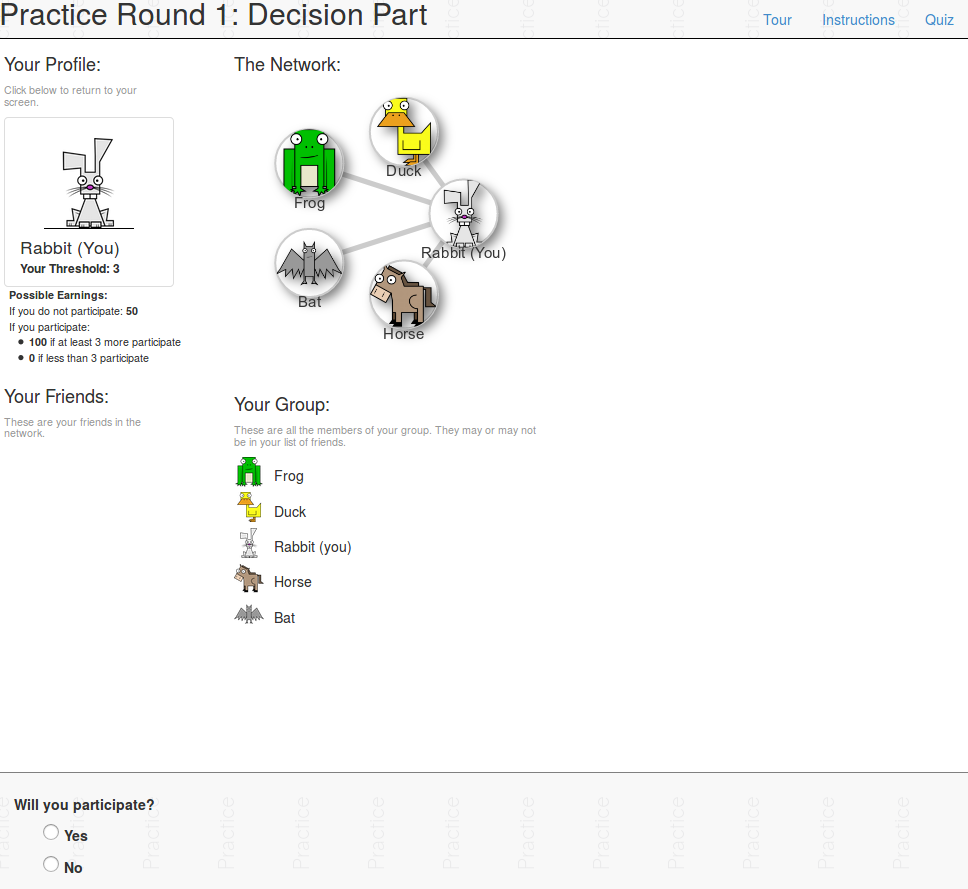
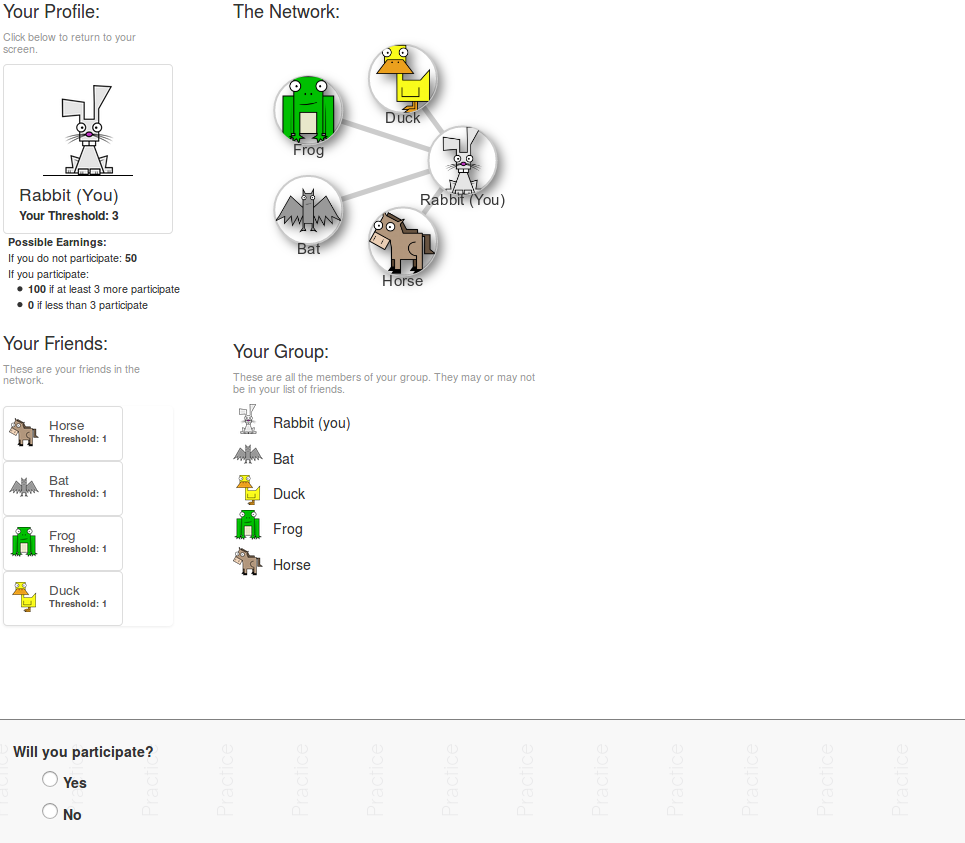
prepare for final deployment

diff --git a/main/views.py b/main/views.py
@@ -21,7 +21,7 @@ class AssignAvatar(Page):
 
 class Discuss(Page):
 
-    #timeout_seconds = 60*10    
+    timeout_seconds = 60*10    
 
     def before_next_page(self):
         if self.timeout_happened:
@@ -126,27 +126,27 @@ class IntermediateWaitPage(WaitPage):
 
 ### SIMPLE CODE FOR AUTOMATED MESSAGES
         message_round = group_players[0].participant.vars['message_round']        
-        for node in self.group.network.node_set.all():
-            if node.bot:
-                neighbors = node.get_neighbors()
-                for neighbor in neighbors:
-                    if int(round(random())) and (self.session.config['condition_messaging'] in ['wall','both']):
-                        wall = neighbor.wall_set.first()
-                        wall.message_set.add(
-                            Message(createdBy=node,
-                            messageRound = message_round, 
-                            message=Constants.messages[randint(1,2)]
-                            )
-                        )
-                    
-                    if int(round(random())) and (self.session.config['condition_messaging'] in ['bilateral','both']):    
-                        privateMessageBoard = neighbor.privatemessageboard_set.first()
-                        privateMessageBoard.privatemessage_set.add(
-                        PrivateMessage(createdBy=node,
-                            messageRound = message_round, 
-                            message=Constants.messages[randint(1,2)]
-                            )
-                        )        
+#        for node in self.group.network.node_set.all():
+#            if node.bot:
+#                neighbors = node.get_neighbors()
+#                for neighbor in neighbors:
+#                    if int(round(random())) and (self.session.config['condition_messaging'] in ['wall','both']):
+#                        wall = neighbor.wall_set.first()
+#                        wall.message_set.add(
+#                            Message(createdBy=node,
+#                            messageRound = message_round, 
+#                            message=Constants.messages[randint(1,2)]
+#                            )
+#                        )
+#                    
+#                    if int(round(random())) and (self.session.config['condition_messaging'] in ['bilateral','both']):    
+#                        privateMessageBoard = neighbor.privatemessageboard_set.first()
+#                        privateMessageBoard.privatemessage_set.add(
+#                        PrivateMessage(createdBy=node,
+#                            messageRound = message_round, 
+#                            message=Constants.messages[randint(1,2)]
+#                            )
+#                        )        
         
         group_players[0].participant.vars['message_round'] += 1
         

diff --git a/practice/consumers.py b/practice/consumers.py
@@ -54,7 +54,6 @@ def ws_receive(message):
         message.save()
 
     elif ws_data['type'] == 'private':
-        print('DOING PRIVATE')
         data = ws_data['content']
         createdBy = Node.objects.get(id = data['createdBy'])
         messageRound = data['messageRound']
@@ -148,12 +147,7 @@ def ws_receive(message):
             
             else:
                 posted_wall_messages_from = PrivateMessage.objects.filter(wall__node = node).filter(createdBy = player_node)
-                posted_wall_messages_from = posted_wall_messages_from.exclude(deleted = True)
-
-            print('wall_to')
-            print(posted_wall_messages_to)
-            print('wall_from')
-            print(posted_wall_messages_from)            
+                posted_wall_messages_from = posted_wall_messages_from.exclude(deleted = True)           
             
             entryList =  posted_wall_messages_to | posted_wall_messages_from
             entryList.order_by('datetime')
@@ -202,7 +196,7 @@ def ws_receive(message):
         Group('chat-' + label).send({'text': json.dumps(toSend)})#
         
     elif ws_data['type'] == 'private-entry-table':
-        print('Private!!!')
+
         data = ws_data['content']
         player_node = Node.objects.get(id = data['sentBy'])      
         

diff --git a/main/models.py b/main/models.py
@@ -25,7 +25,7 @@ class Constants(BaseConstants):
     name_in_url = 'main'
     chat_name = 'chat'
     players_per_group = None               #EDIT: Make flexible with number of players.
-    num_rounds = 10                      #EDIT: Make adjustable from session config.
+    num_rounds = 24                      #EDIT: Make adjustable from session config.
     num_messaging_rounds = 1            #EDIT: Make adjustable from session config.
     messages = {
             1: 'I will participate.',

diff --git a/settings.py b/settings.py
@@ -173,8 +173,8 @@ DEV_CONFIGS = [
          'app_sequence': [
                           'practice', 
                          ],
-         'condition_messaging': 'wall',
-         'condition_network_knowledge': 'local',
+         'condition_messaging': 'none',
+         'condition_network_knowledge': 'global',
      },
      {
          'name': 'test_survey_initial',
